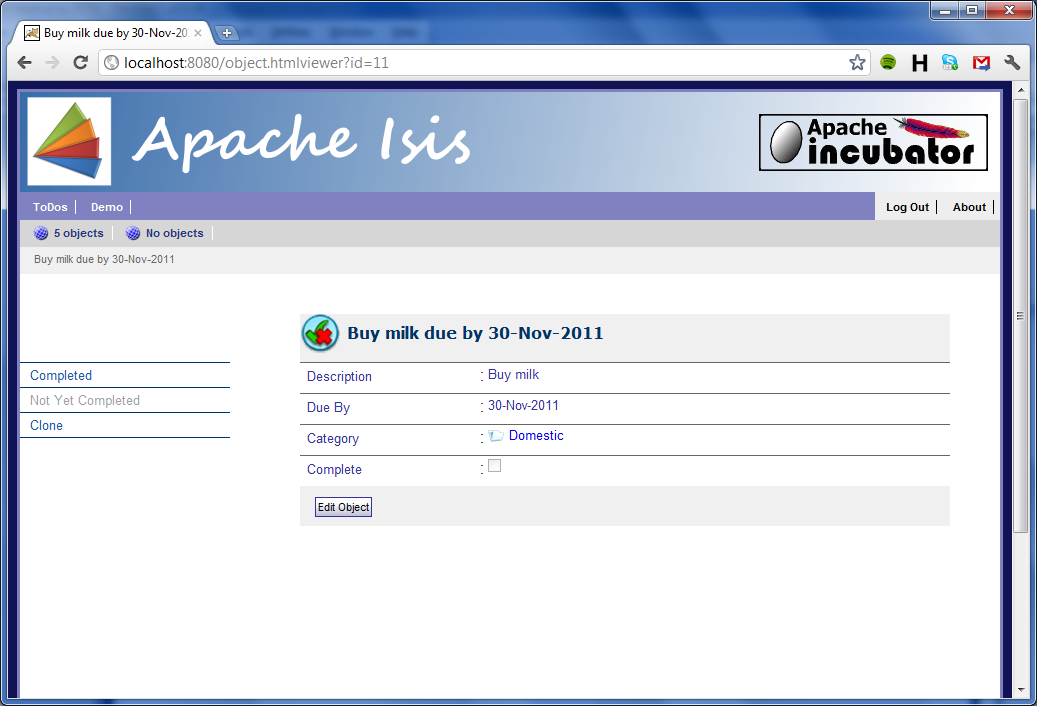
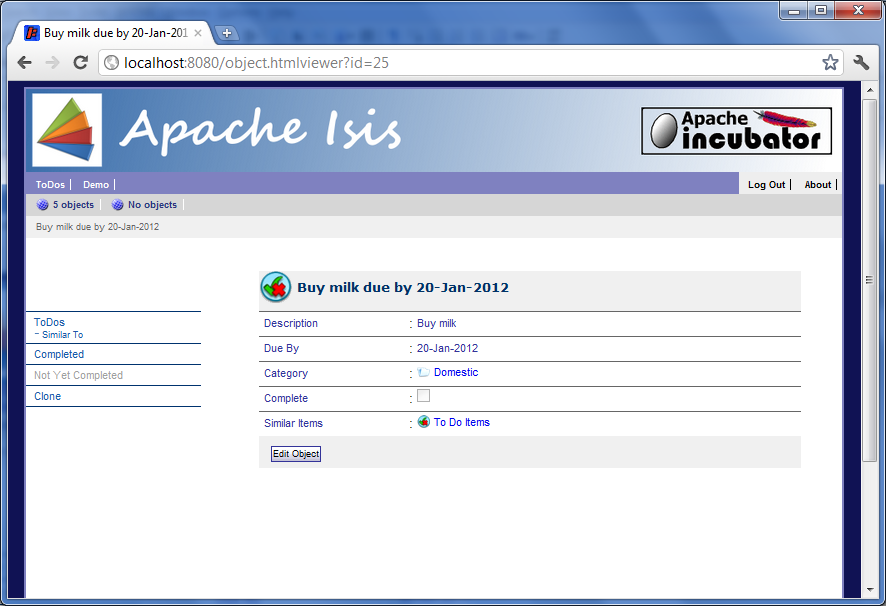
ISIS-170: updating onlinedemo docs to describe the jqmobile demo
git-svn-id: https://svn.apache.org/repos/asf/incubator/isis/trunk@1233911 13f79535-47bb-0310-9956-ffa450edef68

Changed region(s): [[0.0, 0.0, 1.0, 1.0], [0.2743, 0.4455, 0.9142, 0.7723]]

diff --git a/examples/onlinedemo/webapp/src/main/webapp/doc/index.html b/examples/onlinedemo/webapp/src/main/webapp/doc/index.html
@@ -34,7 +34,8 @@
 
       <li>The <a href="#webapp">automatically-generated webapp</a></li>
 
-      <li>The <a href="#rest">REST API</a></li>
+      <li>The <a href="#rest">REST API</a> (plus a simple JQueryMobile <a
+      href="#jqm">demo app</a>)</li>
 
       <li><a href="#next-steps">Next Steps</a></li>
     </ul><h2><a name="domain-model">Domain Model</a></h2><p>The domain model
@@ -66,9 +67,12 @@
   alt="Reset Fixtures" src="htmlviewer-resetfixtures.png"
   style="width:600px;" /><p>Now click on the link to one of the newly created
   objects:</p><img alt="Object" src="htmlviewer-object.png"
+  style="width:600px;" /><p>From there, in turn, you can navigate to related
+  objects. For example, the similarItems collection lists other todo
+  items:</p><img alt="Object" src="htmlviewer-collection.png"
   style="width:600px;" /><p>The webapp is entirely generated from the domain
   object. Compare the app with the source code to see how the metadata is used
-  by the framework.</p><h2><a name="rest">REST API</a></h2><p>As well as the
+  by the framework.</p> <h2><a name="rest">REST API</a></h2><p>As well as the
   human-usable webapp representation of the domain model, <i>Isis</i> also
   allows access to the domain object model through a REST API. The
   representations returned are in JSON format; with resource URLs mapping to
@@ -77,36 +81,38 @@
   fact the REST API provided by <i>Isis</i> is formally documented as the <a
   href="http://restfulobjects.org">Restful Objects</a> specification. This
   aims to provide a cross-platform standard for exposing domain object models
-  via REST. Most developers will write their own custom clients, eg using
-  jqMobile or some other client-side technology. But we expect a variety of
-  generic clients will also emerge to consume this API. </p><p>It is possible
-  though to interact with the REST API directly from the browser, though we
-  recommend that you use a browser extension such as the <a
-  href="https://chrome.google.com/webstore/detail/cokgbflfommojglbmbpenpphppikmonn">REST
-  Console</a> for Chrome (there are similar extensions for other browsers).
-  Provided that you access set the <tt>Accept</tt> header for requests to
-  <tt>application/json</tt>, the REST API can be accessed at the <a
-  href="..">root</a> of the webapp.</p><p>If you only want to browse the JSON
-  and don't want to bother setting the Accept header, you can still access the
-  REST API directly from a web browser, though you will need to browse to the
-  <a href="../services/">services</a> resource instead (browsing to root will
-  redirect you to this documentation instead). Even here we recommend you use
-  the <a
+  via REST. Most developers will write their own custom clients, eg using <a
+  href="http://jquerymobile.com">JQueryMobile</a> or some other client-side
+  technology. But we expect a variety of generic clients will also emerge to
+  consume this API. In fact, this online demo has a simple demo of such a
+  client; see <a href="#jqm">mobile demo</a> below for details.</p><p>To fully
+  explore the REST API you'll need to use another tool. If you only want to
+  browse the JSON you can access the REST API directly from a web browser. The
+  Isis development team tends to either the Chrome or Firefox browsers, and
+  for these browsers you can use the <a
   href="https://chrome.google.com/webstore/detail/chklaanhfefbnpoihckbnefhakgolnmc">JSONView</a>
-  extension for Chrome; this will render the returned JSON in a color-coded
-  collapsible display.</p><p>Whichever way you access the REST API, you'll
-  find that the online demo also protects the json-viewer resources using HTTP
-  Basic Auth (the mechanism used is pluggable). So the first step is set up
-  security. Assuming you are using REST Console, browse to the authorization
-  section:</p><img alt="Authorization" src="restconsole-basicauth-1.png"
-  style="width:600px;" /><p>Press Basic Auth, and enter username and password.
-  (The json-viewer provides no mechanism to register users, so these will need
-  to be a user that you've registered using the html-viewer):</p><img
-  alt="Username and Password" src="restconsole-basicauth-2.png"
-  style="width:600px;" /><p>Next, it's important to set the <i>Accept</i>
-  header to <tt>application/json</tt>. It's also correct (though not so
-  essential) to set <i>Content-Type</i> to <tt>application/json</tt> also:
-  </p><img alt="Accept Header" src="restconsole-accept.png"
+  extension which will render the returned JSON in a color-coded collapsible
+  display. One slight caveat: for this online demo webapp you will need to
+  browse to the <a href="../services/">services</a> resource rather than the
+  <a href="../">root</a> resource (browsing to root resource will redirect you
+  to this documentation instead).</p><p>To more fully interact with the REST
+  API, we recommend using a browser extension such as the <a
+  href="https://chrome.google.com/webstore/detail/cokgbflfommojglbmbpenpphppikmonn">REST
+  Console</a> for Chrome or Firefox (there are similar extensions for other
+  browsers). Because the online demo also protects the json-viewer resources
+  using HTTP Basic Auth (the mechanism used is pluggable), the first step is
+  set up security. Assuming you are using REST Console, browse to the
+  authorization section:</p><img alt="Authorization"
+  src="restconsole-basicauth-1.png" style="width:600px;" /><p>Press Basic
+  Auth, and enter username and password. (The json-viewer provides no
+  mechanism to register users, so these will need to be a user that you've
+  registered using the html-viewer):</p><img alt="Username and Password"
+  src="restconsole-basicauth-2.png" style="width:600px;" /><p>Next, it's
+  important to set the <i>Accept</i> header to <tt>application/json</tt>.
+  (Doing this will also enable you to browse the <a href="..">root</a> of the
+  webapp). It's also correct (though not so essential) to set
+  <i>Content-Type</i> to <tt>application/json</tt> also: </p><img
+  alt="Accept Header" src="restconsole-accept.png"
   style="width:600px;" /><p>After this has been done, hit "Save Defaults" (so
   that <i>Rest Console</i> remembers these settings for all subsequent
   requests).</p><p>Now, go to the Target section and specify [<a
@@ -136,7 +142,27 @@
   indicating no arguments):</p><img alt="Invoke Request"
   src="restconsole-invoke-request.png" style="width:600px;" /><p>Submit this
   request, and the action will be invoked:</p><img alt="Invoke Response"
-  src="restconsole-invoke-response.png" style="width:600px;" /><h2><a
+  src="restconsole-invoke-response.png" style="width:600px;" /><p> </p><h2><a
+  name="jqm">JQueryMobile Demo App</a></h2><p><a
+  href="http://jquerymobile.com">JQueryMobile</a> describes itself as "a
+  unified, HTML5-based user interface system for all popular mobile device
+  platforms, built on the rock-solid jQuery and jQuery UI foundation". The
+  demo app shows how the <a href="#rest">REST API</a> can be browsed on mobile
+  devices using a (mostly) generic user interface.</p><p>Before you start the
+  app, first shrink down your browser window to the dimensions of a smart
+  phone, then start the app by browsing to the <a
+  href="../mobile/index.html">mobile home page</a> :</p><center><img
+  alt="Home Page" src="jqm-home.png" style="width:600px;" /></center><p>This
+  button is hard-coded to call the "ToDoItems#todaysTasks()" service for the
+  current user; from here on though the application is entirely
+  generic.</p><p>Click on the button; the page should transition to a list of
+  the current task items:</p><center><img alt="Home Page" src="jqm-list.png"
+  style="width:600px;" /></center><p>Click on one of the todo
+  items:</p><center><img alt="Home Page" src="jqm-object.png"
+  style="width:600px;" /></center><p>From here you can transition to other,
+  related objects. For example, clicking on the "similarItems" collection
+  shows a list of other task items:</p><center><img alt="Home Page"
+  src="jqm-collection.png" style="width:600px;" /></center><h2><a
   name="next-steps">Next Steps</a></h2><p>If you wish, you can download the
   WAR file <a
   href="https://sites.google.com/a/haywood-associates.co.uk/restfulobjects/files/isis-onlinedemo.war">here</a>.

diff --git a/examples/onlinedemo/webapp/src/main/webapp/mobile/index.html b/examples/onlinedemo/webapp/src/main/webapp/mobile/index.html
@@ -99,10 +99,10 @@
             <div class="valueProperties"></div>
             <br/>
             <p>References</p>
-            <ul data-role="listview" data-inset="true" class="referenceProperties" style="margin-right: 2em;"></ul>
+            <ul data-role="listview" data-inset="true" class="referenceProperties"></ul>
             <br/>
             <p>Collections</p>
-            <ul data-role="listview" data-inset="true" class="collections" style="margin-right: 2em;"></ul>
+            <ul data-role="listview" data-inset="true" class="collections"></ul>
         </div>
 
         <script class="valueProperties-tmpl" type="text/x-jquery-tmpl">
